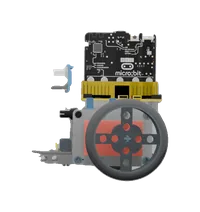
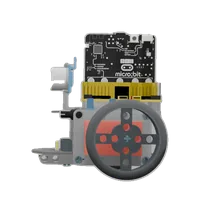
fixed renders

diff --git a/app/static/landing.css b/app/static/landing.css
@@ -685,10 +685,9 @@ a {
     display: none;
 }
 
-/* Every slide is the full width of the stage and they are all laid out, so
-   the stage settles at the height of the tallest caption once and then holds
-   it. Sizing to the current slide instead would make the page jump on every
-   swipe. */
+/* Every slide is the full width of the stage. All seven renders share one
+   canvas, so every slide is the same height and the stage holds it without
+   being told to. */
 .bot-slide {
     flex: 0 0 100%;
     scroll-snap-align: center;
@@ -703,22 +702,6 @@ a {
     max-width: 24rem;
     height: auto;
     margin-inline: auto;
-}
-
-/* Pinned to the bottom so the captions line up across slides however long
-   each one runs. */
-.bot-caption {
-    margin: 0;
-    padding-top: 1.25rem;
-    font-size: 0.9rem;
-    line-height: 1.45;
-    color: var(--ink-soft);
-    margin-top: auto;
-}
-
-.bot-caption b {
-    color: var(--ink);
-    font-weight: 600;
 }
 
 .bot-rail {

diff --git a/app/templates/landing.html b/app/templates/landing.html
@@ -351,9 +351,6 @@
                                          loading="{{ 'eager' if lead else 'lazy' }}"
                                          decoding="async"
                                          {% if lead %}fetchpriority="high"{% endif %}>
-                                    <p class="bot-caption">
-                                        <b>{{ view.label }}.</b>{% if view.caption %} {{ view.caption }}{% endif %}
-                                    </p>
                                 </div>
                             {% endfor %}
                         </div>

diff --git a/tools/render_bot_views.py b/tools/render_bot_views.py
@@ -23,15 +23,26 @@ polynomial surface is least-squares fitted per channel to the outer frame of
 the image, which is background by construction. Every pixel is then judged by
 how far it sits from that model.
 
-One threshold is not enough. A pixel far from the model is certainly the robot
-(black tyres, red plastic, the yellow board). A pixel a little way from it is
-either a pale grey LEGO beam or the soft contact shadow the robot casts, and
-those two have to be told apart or the cutout either loses the chassis or
-keeps a dirty halo. They are separated by shape rather than by colour: the
-shadow is a thin ring hugging the silhouette, so eroding the weak mask deletes
-it, while the beam is thick enough to survive. Eroding alone would also delete
-genuinely thin parts, so the strong mask -- which the shadow never reaches --
-is unioned back in, and that is what saves the micro:bit's aerial.
+One threshold does the whole job, and that is a deliberate retreat. An earlier
+version took a second, higher threshold as "certainly the robot" and eroded
+the lower one by ten pixels to shave off the contact shadow. The shadow does
+not survive that, but neither does anything else thin and close to the
+background grey. The ultrasonic sensor is the casualty: it is lit to within
+0.005 of the backdrop's own level and hangs off the chassis on a pale beam a
+few pixels wide, so both side views shipped with the sensor floating in space,
+its barrel bitten into, and the chassis plates chewed along their edges.
+
+Measured across the seven renders there is no threshold that parts the shadow
+from those parts -- near the body the residual runs continuously from 0.02 to
+0.20 with no gap -- and no erosion narrow enough to keep the beam is wide
+enough to lose the shadow. Reachability does not part them either: a flood
+from the frame that is loose enough to cross the shadow is loose enough to
+walk into the tyres, which are as smooth as it is.
+
+What rescues the picture is that the shadow only just clears the threshold, so
+it hugs the silhouette a few pixels deep instead of pooling on the ground. A
+closing folds that depth into the outline, and what is left reads as a soft
+edge rather than a halo. Nothing is eroded, so nothing thin is lost.
 """
 
 from __future__ import annotations
@@ -60,20 +71,26 @@ VIEWS = [
 ]
 
 # The stage tops out near 600 CSS px on a desktop and near 360 on a phone, so
-# 1120 covers a 2x phone and a large desktop alike. 200 is the thumbnail rail.
+# these would cover a 2x phone and a large desktop alike -- but the robot only
+# occupies about 570 px of the 1920 px render, and render() never upscales, so
+# the top two collapse onto that native width and the files actually written
+# are 200, 440 and 570. They are kept because a future set of renders that
+# frames the robot tighter would fill them in without a code change. 200 is
+# the thumbnail rail.
 WIDTHS = [200, 440, 760, 1120]
 
 # Distance from the fitted background at which a pixel stops being background.
 # Measured: across all seven renders the fit's own error never exceeds 0.019
 # on the frame that was fitted, so 0.045 clears the noise floor with room to
-# spare. STRONG is the level only the robot reaches, never its shadow.
+# spare. Raising it past about 0.06 starts opening holes in the pale grey
+# front plate, which is the first real part to go.
 WEAK = 0.045
-STRONG = 0.15
 
-# Pixels of the weak mask to shave off. The cast shadow is a soft ring a few
-# pixels wide; this is comfortably wider than it and far narrower than any
-# real part of the robot.
-ERODE = 10
+# Closing applied to the thresholded mask, in pixels. Wide enough to swallow
+# the shadow's few-pixel skirt and to bridge the threshold's speckle across a
+# wheel's spokes; narrow enough not to bridge the gap between a wheel and the
+# chassis, which is a hole the eye expects to see through.
+CLOSE = 9
 
 # Fitted on the outer frame of the image, which no render's robot comes near.
 FRAME = 120
@@ -81,7 +98,7 @@ POLY_DEGREE = 5
 
 # Skirt of bled colour kept around the silhouette, in source pixels. Has to
 # exceed the reach of the resampling kernel at the largest downscale on offer
-# (744 -> 200 is 3.7x, and Lanczos reaches three output pixels, so eleven
+# (570 -> 200 is 2.9x, and Lanczos reaches three output pixels, so nine
 # source pixels); 24 is that with room to spare.
 MARGIN = 24
 
@@ -154,15 +171,11 @@ def _silhouette(rgb):
 
     residual = _background_residual(rgb)
 
-    weak = ndimage.binary_closing(residual > WEAK, np.ones((7, 7)))
-    weak = ndimage.binary_fill_holes(weak)
-
-    strong = ndimage.binary_closing(residual > STRONG, np.ones((5, 5)))
-    strong = ndimage.binary_fill_holes(strong)
-
-    mask = ndimage.binary_erosion(weak, iterations=ERODE) | strong
-    mask = ndimage.binary_fill_holes(ndimage.binary_closing(mask, np.ones((5, 5))))
-    return _largest_parts(mask)
+    # Close before filling. The threshold alone leaves the spokes of a wheel as
+    # separate islands; filling that would punch the gaps between them straight
+    # through the wheel, where closing first joins them into one rim to fill.
+    mask = ndimage.binary_closing(residual > WEAK, np.ones((CLOSE, CLOSE)))
+    return _largest_parts(ndimage.binary_fill_holes(mask))
 
 
 def _bleed_colour(rgb, mask):

diff --git a/app/routes.py b/app/routes.py
@@ -64,33 +64,18 @@ ROUTE_INDEX = [
 # A slug with no rendered images is skipped, so the gallery shrinks rather
 # than breaking if a view is dropped from the renders.
 #
-# The caption is optional and most views do not have one. A photograph of a
-# robot does not need a paragraph telling you it is a robot; the ones here
-# are the facts the picture cannot show you on its own.
+# Nothing prints the label: the picture is its own caption, and the paragraph
+# under it was only ever saying what the reader could already see. It names
+# the view for the image's alt text and for the thumbnail rail, both of which
+# assistive tech reads and neither of which is on screen.
 BOT_VIEWS = [
     {"slug": "three-quarter-left", "label": "Three-quarter"},
-    {
-        "slug": "front",
-        "label": "Front",
-        "caption": "The two barrels are the ultrasonic sensor.",
-    },
-    {
-        "slug": "three-quarter-right",
-        "label": "Three-quarter, right",
-        "caption": "Nothing is glued or soldered.",
-    },
-    {
-        "slug": "left",
-        "label": "Left side",
-        "caption": "Drive the two wheels opposite ways and it turns on the spot.",
-    },
+    {"slug": "front", "label": "Front"},
+    {"slug": "three-quarter-right", "label": "Three-quarter, right"},
+    {"slug": "left", "label": "Left side"},
     {"slug": "right", "label": "Right side"},
     {"slug": "above-tilted", "label": "From above, tilted"},
-    {
-        "slug": "above",
-        "label": "From above",
-        "caption": "Everything starts inside a 10 cm square.",
-    },
+    {"slug": "above", "label": "From above"},
 ]
 
 
